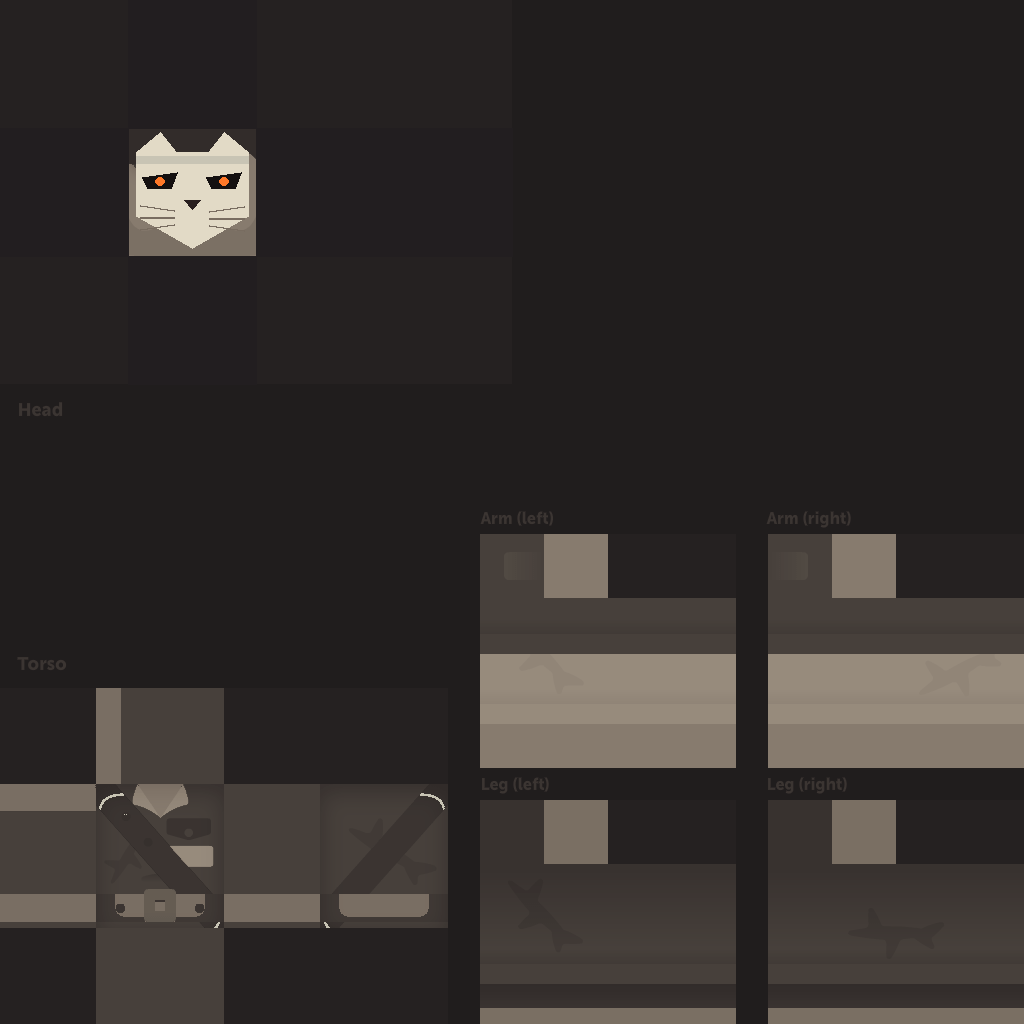
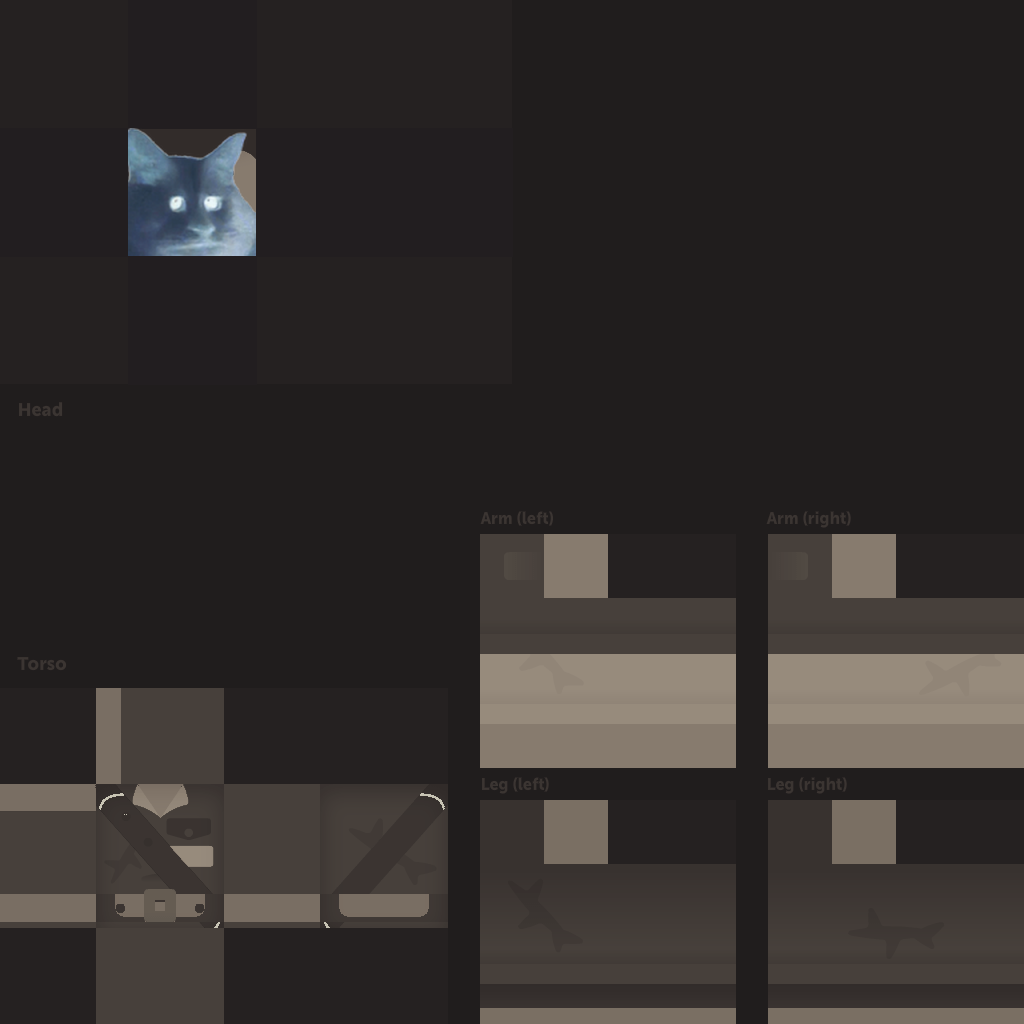
The Unlit wear real Speeb emoji faces as masks
Claude-Session: https://claude.ai/code/session_01QGktfdN1Ck3voXMWB66KHX

Changed region(s): [[0.125, 0.125, 0.25, 0.25]]

diff --git a/tools/retexture.py b/tools/retexture.py
@@ -1,7 +1,7 @@
 """Makes the skins of the waste's new foes from Kenney's CC0 character textures.
 
 The Unlit (raiders) are recoloured from the blocky characters: ash-dark cloth, a rust or ochre sash,
-and a bone-white cat mask painted over the face in mockery of Speeb. The graveyard characters become
+and a Speeb face (one of the game's own emoji) worn as a mask, in mockery of Speeb. The graveyard characters become
 the Hollowed (ash-grey skin, ember eyes), the Salt-Bones (salt white) and the Lost Vigil (pale gold).
 Run: python3 tools/retexture.py
 """
@@ -11,6 +11,7 @@ from PIL import Image, ImageDraw
 HERE = os.path.join(os.path.dirname(os.path.abspath(__file__)), "..", "assets", "models", "foes")
 TEX = os.path.join(HERE, "Textures")
 OUT = os.path.join(HERE, "skins")
+EMOJI = os.path.join(HERE, "..", "..", "emoji")
 os.makedirs(OUT, exist_ok=True)
 
 
@@ -27,7 +28,7 @@ def ramp(t, stops):
 	return tuple(int(a[k] + (b[k] - a[k]) * f) for k in range(3))
 
 
-def unlit(base, accent, name):
+def unlit(base, accent, name, emoji):
 	im = Image.open(os.path.join(TEX, base)).convert("RGBA")
 	px = im.load()
 	w, h = im.size
@@ -50,22 +51,9 @@ def unlit(base, accent, name):
 	hood = (34, 30, 32, 255)
 	for box in [(128, 0, 256, 128), (0, 128, 128, 256), (256, 128, 384, 256), (384, 128, 512, 256), (128, 256, 256, 384)]:
 		d.rectangle([int(v * s) for v in box], fill=hood)
-	fx, fy = 128 * s, 128 * s
-	u = 128 * s / 16.0   # the face is 16 small units across
-	bone = (226, 218, 198, 255)
-	d.polygon([(fx + 1 * u, fy + 3 * u), (fx + 4 * u, fy + 0.5 * u), (fx + 6 * u, fy + 3 * u), (fx + 10 * u, fy + 3 * u),
-		(fx + 12 * u, fy + 0.5 * u), (fx + 15 * u, fy + 3 * u), (fx + 15 * u, fy + 11 * u), (fx + 8 * u, fy + 15 * u),
-		(fx + 1 * u, fy + 11 * u)], fill=bone)
-	ember = (255, 120, 40, 255)
-	for ex in (4.0, 12.0):
-		d.polygon([(fx + (ex - 2.2) * u, fy + 6.2 * u), (fx + (ex + 2.2) * u, fy + 5.6 * u), (fx + (ex + 1.4) * u, fy + 7.6 * u), (fx + (ex - 1.6) * u, fy + 7.6 * u)], fill=(20, 16, 16, 255))
-		d.ellipse([fx + (ex - 0.6) * u, fy + 6.2 * u, fx + (ex + 0.6) * u, fy + 7.2 * u], fill=ember)
-	d.polygon([(fx + 7 * u, fy + 9 * u), (fx + 9 * u, fy + 9 * u), (fx + 8 * u, fy + 10.2 * u)], fill=(40, 30, 30, 255))
-	for side in (-1, 1):
-		for k in range(3):
-			y0 = fy + (10.4 + k * 0.9) * u
-			d.line([(fx + (8 + side * 2.2) * u, y0), (fx + (8 + side * 6.5) * u, y0 + (k - 1) * 0.6 * u)], fill=(120, 108, 96, 255), width=max(1, int(u * 0.25)))
-	d.rectangle([fx + 1 * u, fy + 3.6 * u, fx + 15 * u, fy + 4.4 * u], fill=accent + (255,))   # a stripe of ochre or rust across the brow
+	# On the front, a Speeb face worn as a mask: one of Steve's own emoji, over the hood
+	face = Image.open(os.path.join(EMOJI, emoji + ".png")).convert("RGBA").resize((int(128 * s), int(128 * s)), Image.LANCZOS)
+	im.alpha_composite(face, (int(128 * s), int(128 * s)))
 	im.save(os.path.join(OUT, name))
 	print(name)
 
@@ -104,9 +92,9 @@ def warden(hh, ll, ss):
 	return ramp(ll, [(18, 16, 16), (46, 42, 40), (92, 86, 80), (150, 144, 134)])
 
 
-unlit("texture-a.png", (150, 52, 30), "unlit_rust.png")
-unlit("texture-k.png", (190, 140, 40), "unlit_ochre.png")
-unlit("texture-m.png", (200, 196, 180), "unlit_bone.png")
+unlit("texture-a.png", (150, 52, 30), "unlit_rust.png", "emberspeeb")
+unlit("texture-k.png", (190, 140, 40), "unlit_ochre.png", "wrathspeeb")
+unlit("texture-m.png", (200, 196, 180), "unlit_bone.png", "negaspeeb")
 tint("hollow.png", hollow)
 tint("saltbone.png", saltbone)
 tint("vigil.png", vigil)
